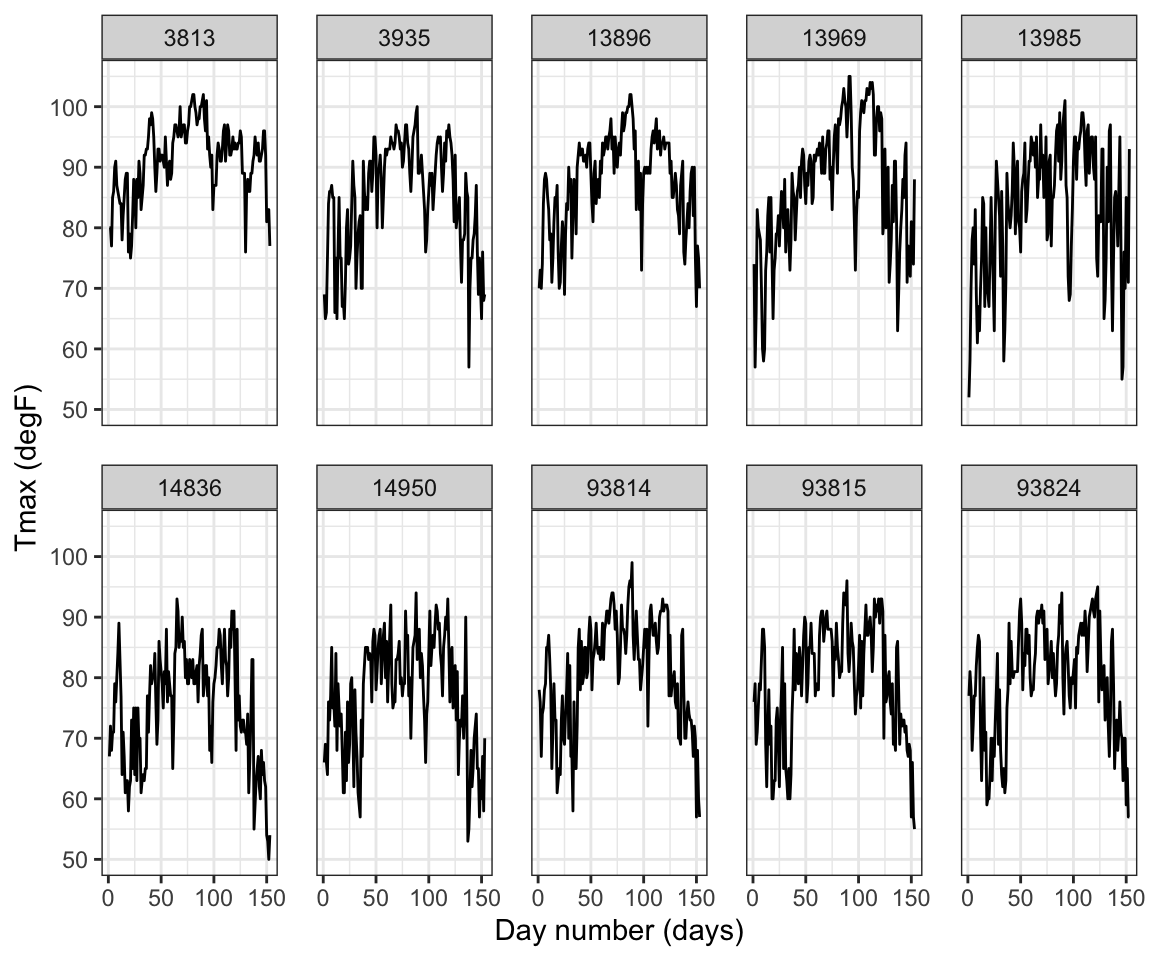
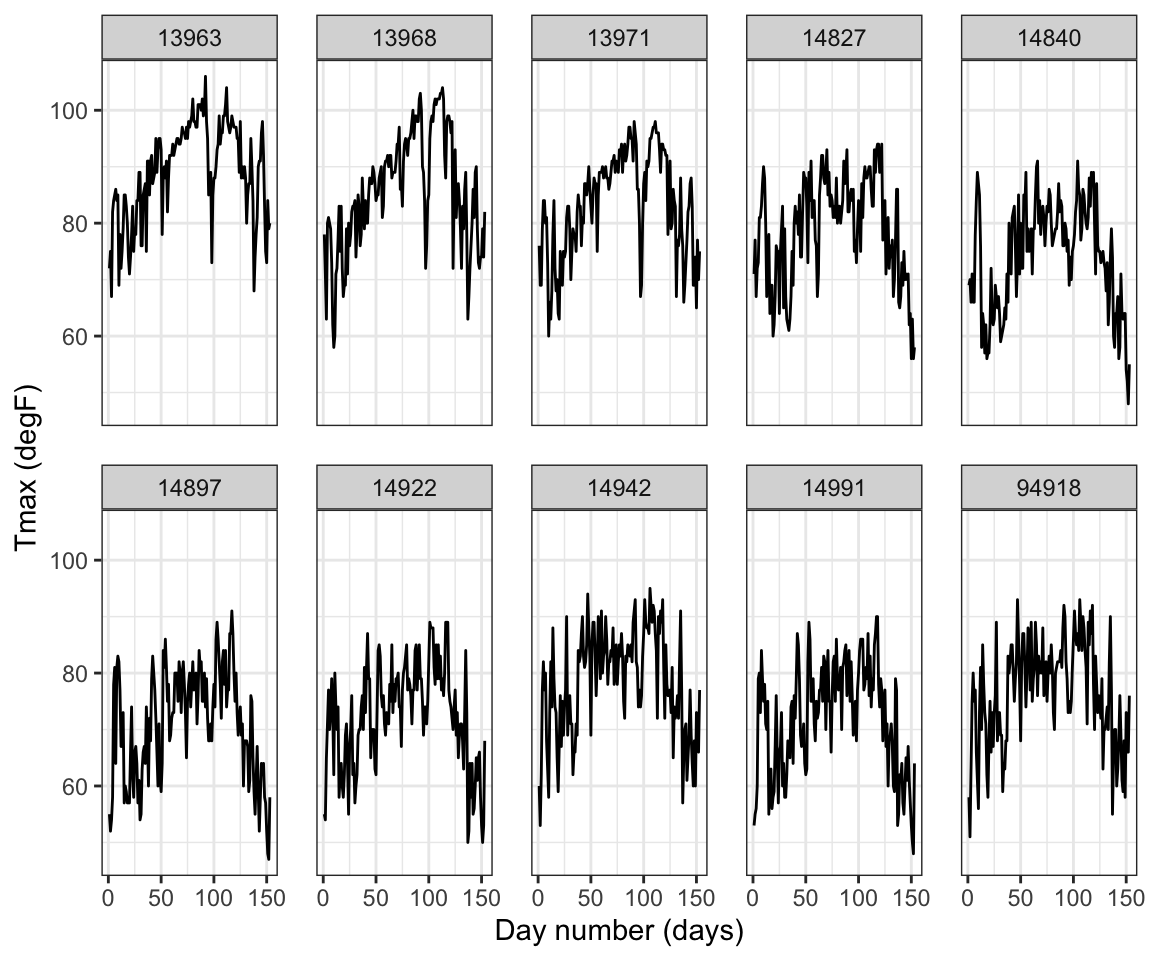
Update

diff --git a/Week11.html b/Week11.html
@@ -409,10 +409,9 @@ Tmax_1sf = st_as_sf(Tmax_1, coords = c(&quot;lon&quot;, &quot;lat&quot;), crs = 
 <pre class="r"><code>ggplot() + geom_sf(data = state_sf) + 
   geom_sf(data = Tmax_1sf, aes(color = z)) + 
   coord_sf(xlim = c(-105, -75), ylim = c(25, 50)) + 
-  scale_colour_gradientn(name = &quot;degF&quot;,                    # attach color scale
-                         colours = terrain.colors(10)) + 
+  scale_colour_gradientn(name = &quot;degF&quot;, colours = terrain.colors(10)) + 
   facet_grid(~date)</code></pre>
-<p><img src="Week11_files/figure-html/unnamed-chunk-4-1.png" width="576" style="display: block; margin: auto;" /></p>
+<p><img src="Week11_files/figure-html/unnamed-chunk-4-1.png" width="768" style="display: block; margin: auto;" /></p>
 </div>
 <div id="time-series-plots" class="section level1" number="3">
 <h1><span class="header-section-number">3</span> Time-Series Plots</h1>
@@ -421,13 +420,13 @@ Tmax_1sf = st_as_sf(Tmax_1, coords = c(&quot;lon&quot;, &quot;lat&quot;), crs = 
 UIDs_sub &lt;- sample(UIDs, 10)                # sample 10 IDs
 Tmax_sub &lt;- filter(Tmax, id %in% UIDs_sub)  # subset data
 head(Tmax_sub)</code></pre>
-<pre><code>##   julian year month day   id  z proc  lat    lon       date t
-## 1 728050 1993     5   1 3813 80 Tmax 32.7 -83.65 1993-05-01 1
-## 2 728051 1993     5   2 3813 80 Tmax 32.7 -83.65 1993-05-02 2
-## 3 728052 1993     5   3 3813 77 Tmax 32.7 -83.65 1993-05-03 3
-## 4 728053 1993     5   4 3813 85 Tmax 32.7 -83.65 1993-05-04 4
-## 5 728054 1993     5   5 3813 86 Tmax 32.7 -83.65 1993-05-05 5
-## 6 728055 1993     5   6 3813 90 Tmax 32.7 -83.65 1993-05-06 6</code></pre>
+<pre><code>##   julian year month day    id  z proc      lat       lon       date t
+## 1 728050 1993     5   1 13963 72 Tmax 34.73333 -92.23333 1993-05-01 1
+## 2 728051 1993     5   2 13963 75 Tmax 34.73333 -92.23333 1993-05-02 2
+## 3 728052 1993     5   3 13963 67 Tmax 34.73333 -92.23333 1993-05-03 3
+## 4 728053 1993     5   4 13963 82 Tmax 34.73333 -92.23333 1993-05-04 4
+## 5 728054 1993     5   5 13963 84 Tmax 34.73333 -92.23333 1993-05-05 5
+## 6 728055 1993     5   6 13963 85 Tmax 34.73333 -92.23333 1993-05-06 6</code></pre>
 <p>Next, time-series is plotted.</p>
 <pre class="r"><code>## ------------------------------------------------------------------------
 TmaxTS &lt;- ggplot(Tmax_sub) +
